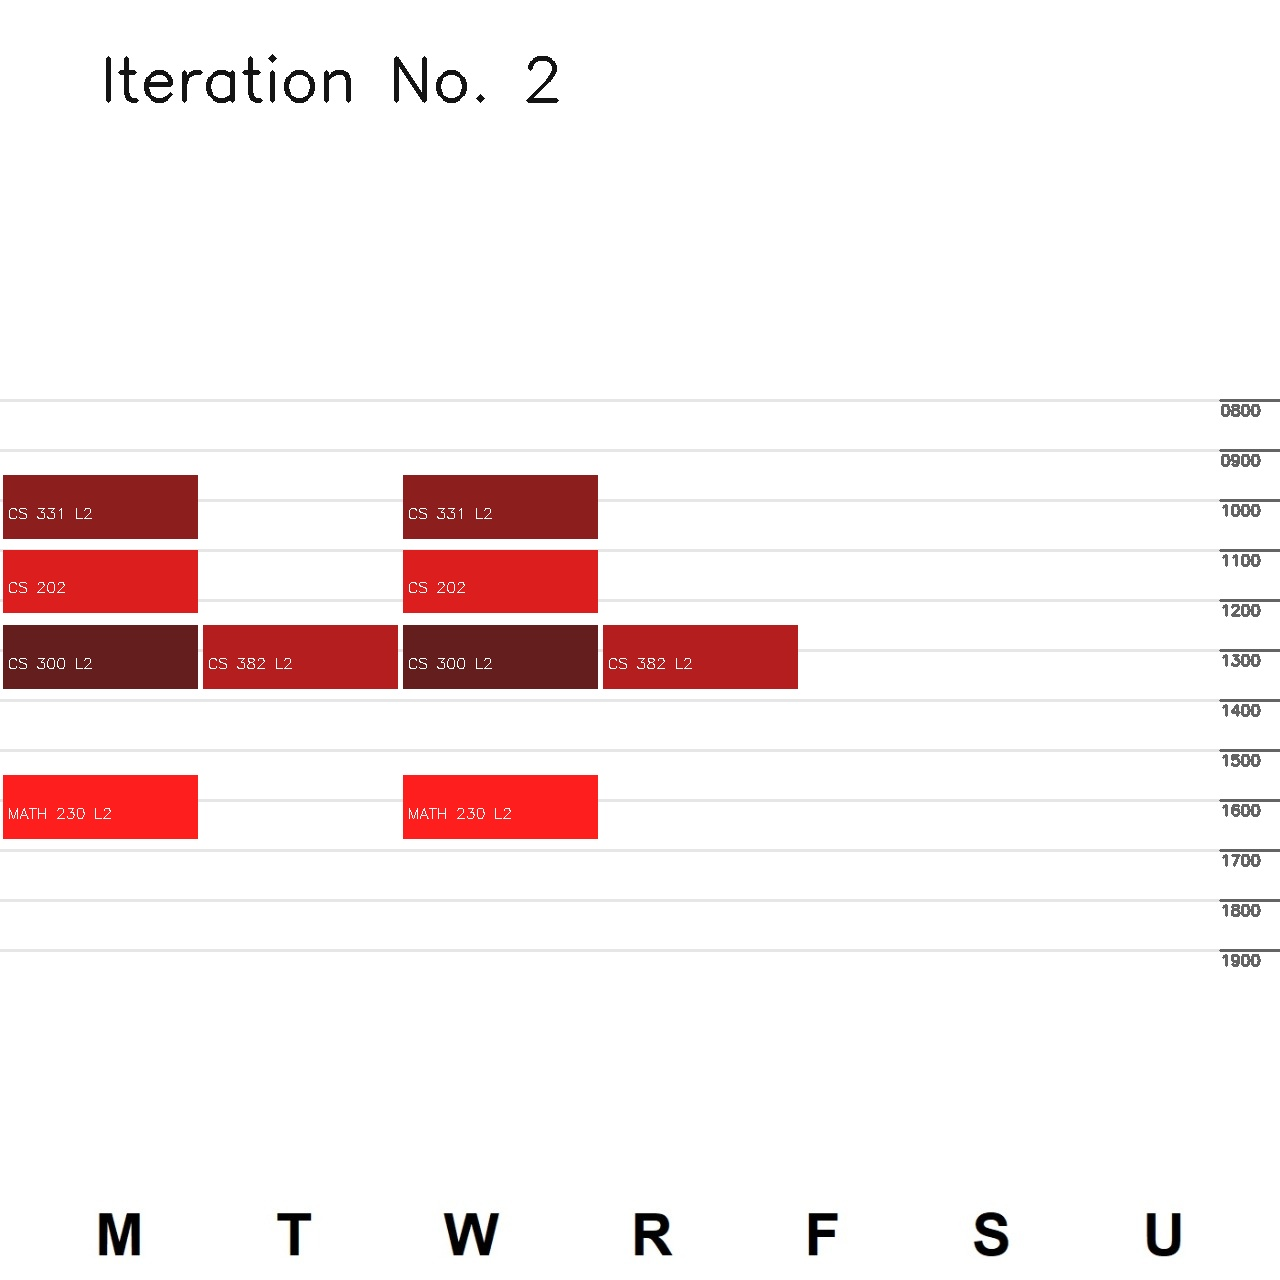
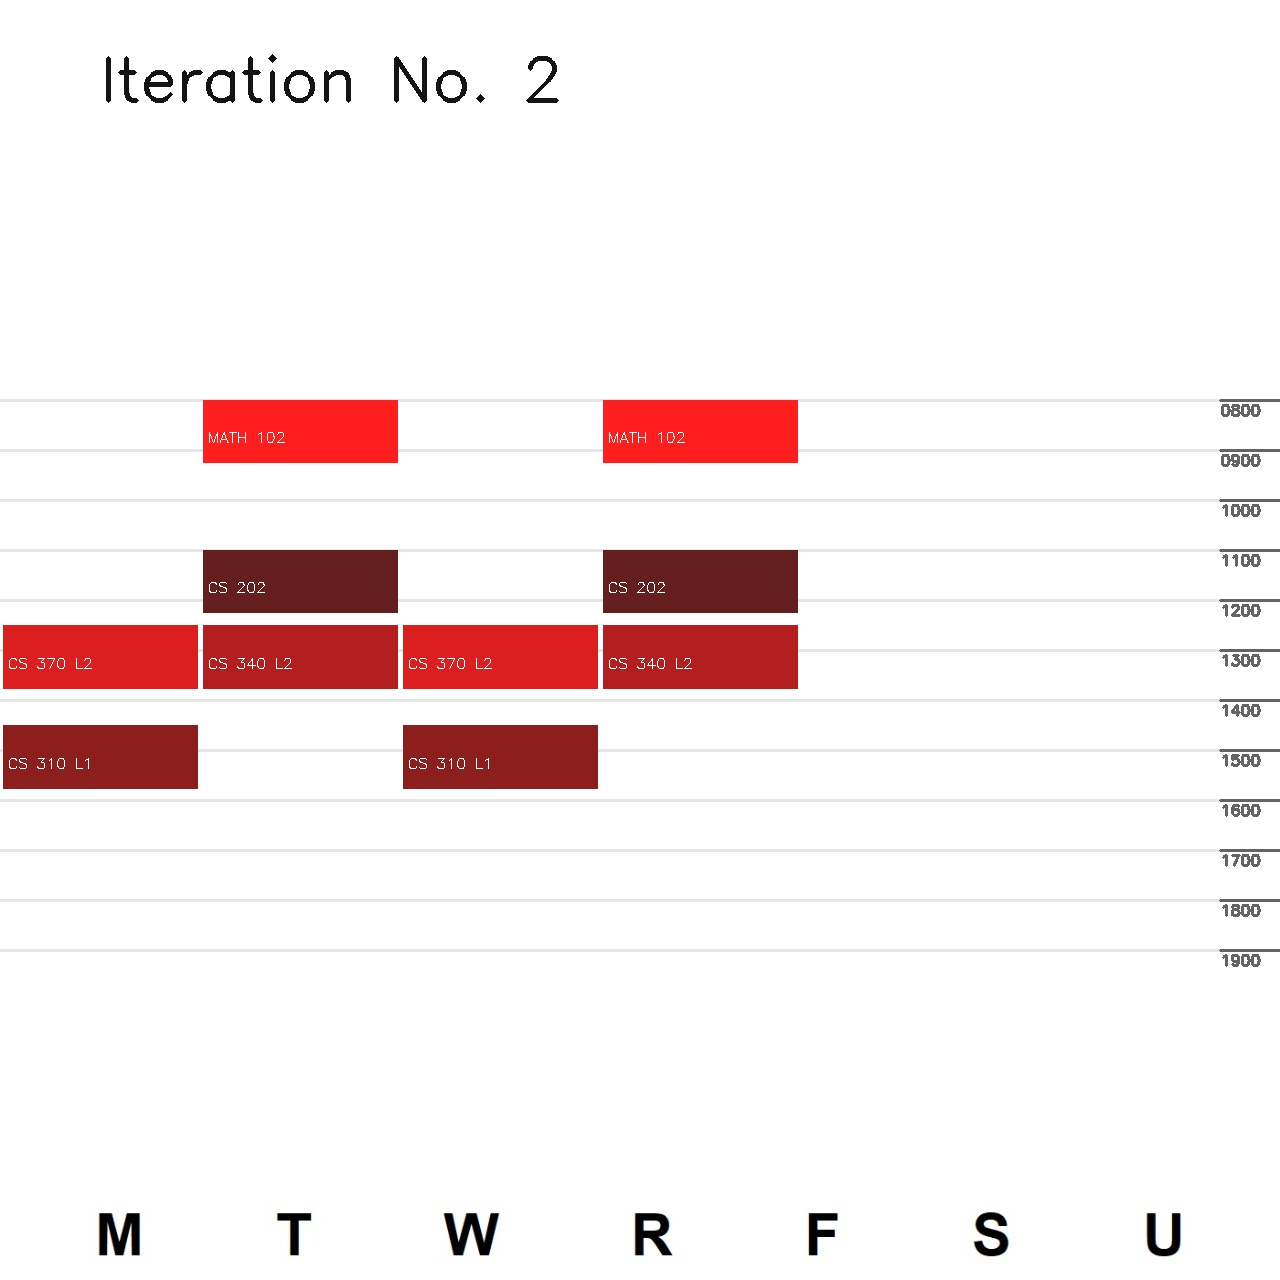
Added parser

Changed region(s): [[0.0, 0.3125, 0.625, 0.6562]]

diff --git a/parse.py b/parse.py
@@ -1,0 +1,60 @@
+import pdfplumber
+import os
+
+
+print("EzEnroll Parser\n")
+
+pdf_files = [file for file in os.listdir(os.getcwd()) if file.endswith(".pdf")]
+if (len(pdf_files) == 0):
+    print("No PDFs found!")
+    exit()
+
+print("Found", len(pdf_files), "potential schedule PDFs:")
+for count, file in enumerate(pdf_files):
+    print("["+str(count+1)+"]", file)
+schedule = pdf_files[int(input("Select a PDF: "))-1]
+
+split_x = [0, 130, 310, 370, 440, 510, 740, 910]
+width = 910
+for i in range(len(split_x)):
+    split_x[i] = split_x[i]/width
+
+all_content = []
+
+with pdfplumber.open(schedule) as pdf:
+    for i, page in enumerate(pdf.pages[:-2]):
+        print("--------------- Page", i+1, "of", len(pdf.pages)-2, "---------------")
+
+        width = page.width
+        height = page.height
+
+        bbox = []
+        for j in range(len(split_x)-1):
+            bbox.append((
+                split_x[j]*float(width),    0*float(height),
+                split_x[j+1]*float(width),  1*float(height))
+            )
+        
+        course_names = page.crop(bbox=bbox[0]).extract_text_lines()[:-1]
+        for j in range(len(course_names)):
+            if course_names[j]["text"] == "Course Code":
+                course_names = course_names[j+1:]
+                break
+        
+        course_times = page.crop(bbox=bbox[-2]).extract_text_lines()
+        for j in range(len(course_times)):
+            if course_times[j]["text"] == "Days Start Time End Time":
+                course_times = course_times[j+1:]
+                break
+
+        new_course_names = []
+        
+        for j in range(len(course_times)):
+            y = course_times[j]["top"]
+            for k in range(len(course_names)):
+                if (course_names[k]["top"] <= y and (k == len(course_names)-1 or course_names[k+1]["top"] > y)):
+                    new_course_names.append(course_names[k])
+                    break
+
+        for c in range(len(new_course_names)):
+            print(new_course_names[c]["text"] + "," + course_times[c]["text"])

diff --git a/main.py b/main.py
@@ -31,48 +31,45 @@ padding = 10 # Required between classes in minutes
 
 course_names = [
     [
-        "CS 300 L1",
-        "CS 300 L2"
-    ],
-    [
-        "CS 331 L1",
-        "CS 331 L2"
-    ],
-    [
-        "CS 382 L1",
-        "CS 382 L2"
-    ],
-    [
         "CS 202"
     ],
     [
-        "MATH 230 L1",
-        "MATH 230 L2"
+        "CS 310 L1",
+        "CS 310 L2"
+    ],
+    [
+        "CS 340 L1",
+        "CS 340 L2"
+    ],
+    [
+        "CS 370 L1",
+        "CS 370 L2"
+    ],
+    [
+        "MATH 102"
     ]
 ]
 
 course_times = [
     [
-        ["MW 11:00AM 12:15PM"], # We can add more times for this section such as a lab e.g. ["MW 11:00AM 12:15PM", "FF 1:00PM 2:00PM"]
-        ["MW 12:30PM 1:45PM"]
+        ["TR 11:00AM 12:15PM"], # We can add more times for this section such as a lab e.g. ["MW 11:00AM 12:15PM", "FF 1:00PM 2:00PM"]
     ],
     [
-        ["TR 12:30PM 1:45PM"],
+        ["MW 2:30PM 3:45PM"],
         ["MW 9:30AM 10:45AM"]
     ],
     [
-        ["MW 12:30PM 1:45PM"],
+        ["MW 11:00AM 12:15PM"],
         ["TR 12:30PM 1:45PM"]
     ],
     [
-        ["MW 11:00AM 12:15PM"]
+        ["MW 2:30PM 3:45PM"],
+        ["MW 12:30PM 1:45PM"]
     ],
     [
-        ["MW 8:00AM 9:15AM"],
-        ["MW 3:30PM 4:45PM"]
+        ["TR 8:00AM 9:15AM"]
     ]
 ]
-
 
 # Convert timings to readable format
 print("Converting course times:")
